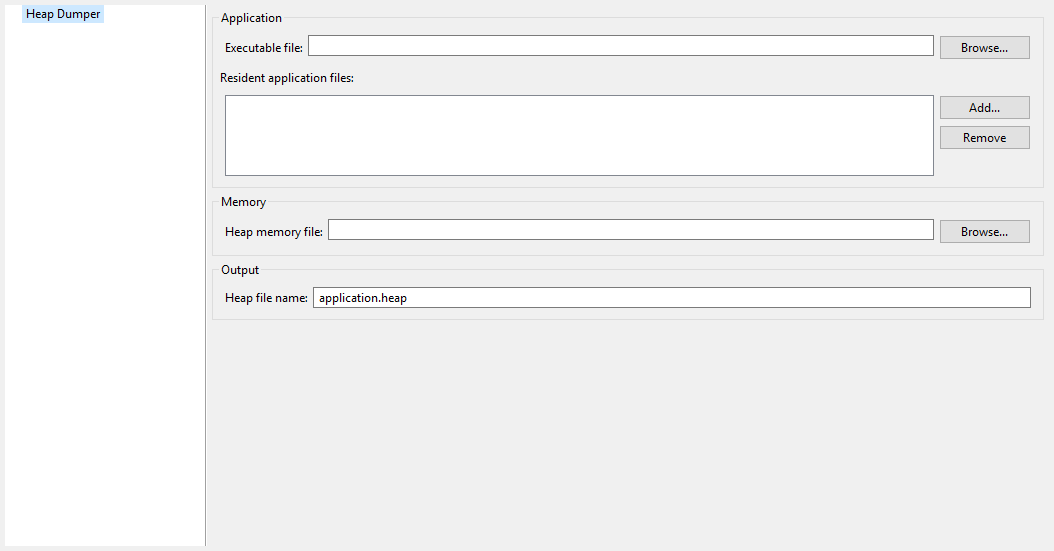
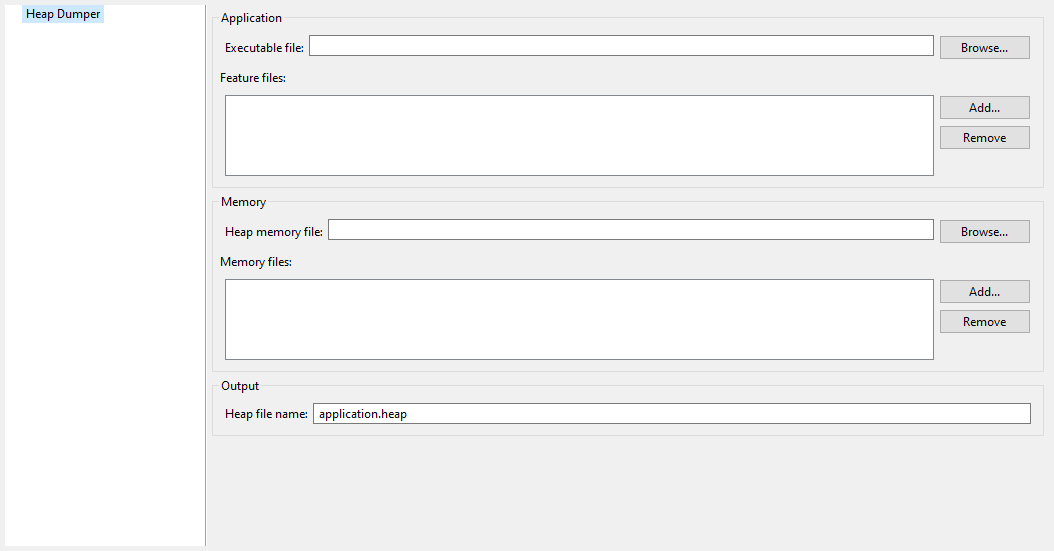
re-generate heap dumper options

diff --git a/ApplicationDeveloperGuide/heapdumper_use.rst b/ApplicationDeveloperGuide/heapdumper_use.rst
@@ -3,9 +3,8 @@ Category: Heap Dumper
 
 
 .. figure:: images/heapdumper_options/img1.png
+   :scale: 100%
    :align: center
-   :width: 1054px
-   :height: 551px
 
 Group: Application
 ^^^^^^^^^^^^^^^^^^
@@ -22,8 +21,8 @@ Option(browse): Executable file
 
 Specify the full path of a full linked ELF file.
 
-Option(list): Resident application files
-''''''''''''''''''''''''''''''''''''''''
+Option(list): Feature files
+^^^^^^^^^^^^^^^^^^^^^^^^^^^
 
 *Option Name*: ``additional.application.filenames``
 
@@ -31,8 +30,7 @@ Option(list): Resident application files
 
 *Description*:
 
-Specify the full path of System Applications ``.out`` files linked by the
-Firmware Linker.
+Specify the full path of Feature files (``.fodbg`` files).
 
 Group: Memory
 ^^^^^^^^^^^^^
@@ -47,6 +45,18 @@ Option(browse): Heap memory file
 *Description*:
 
 Specify the full path of heap memory dump, in Intel Hex format.
+
+Option(list): Memory files
+''''''''''''''''''''''''''
+
+*Option Name*: ``additional.memory.filenames``
+
+*Default value*: ``(empty)``
+
+*Description*:
+
+Specify the full path of additional memory files (Installed Feature areas,
+Dynamic Features table, ...).
 
 Group: Output
 ^^^^^^^^^^^^^
